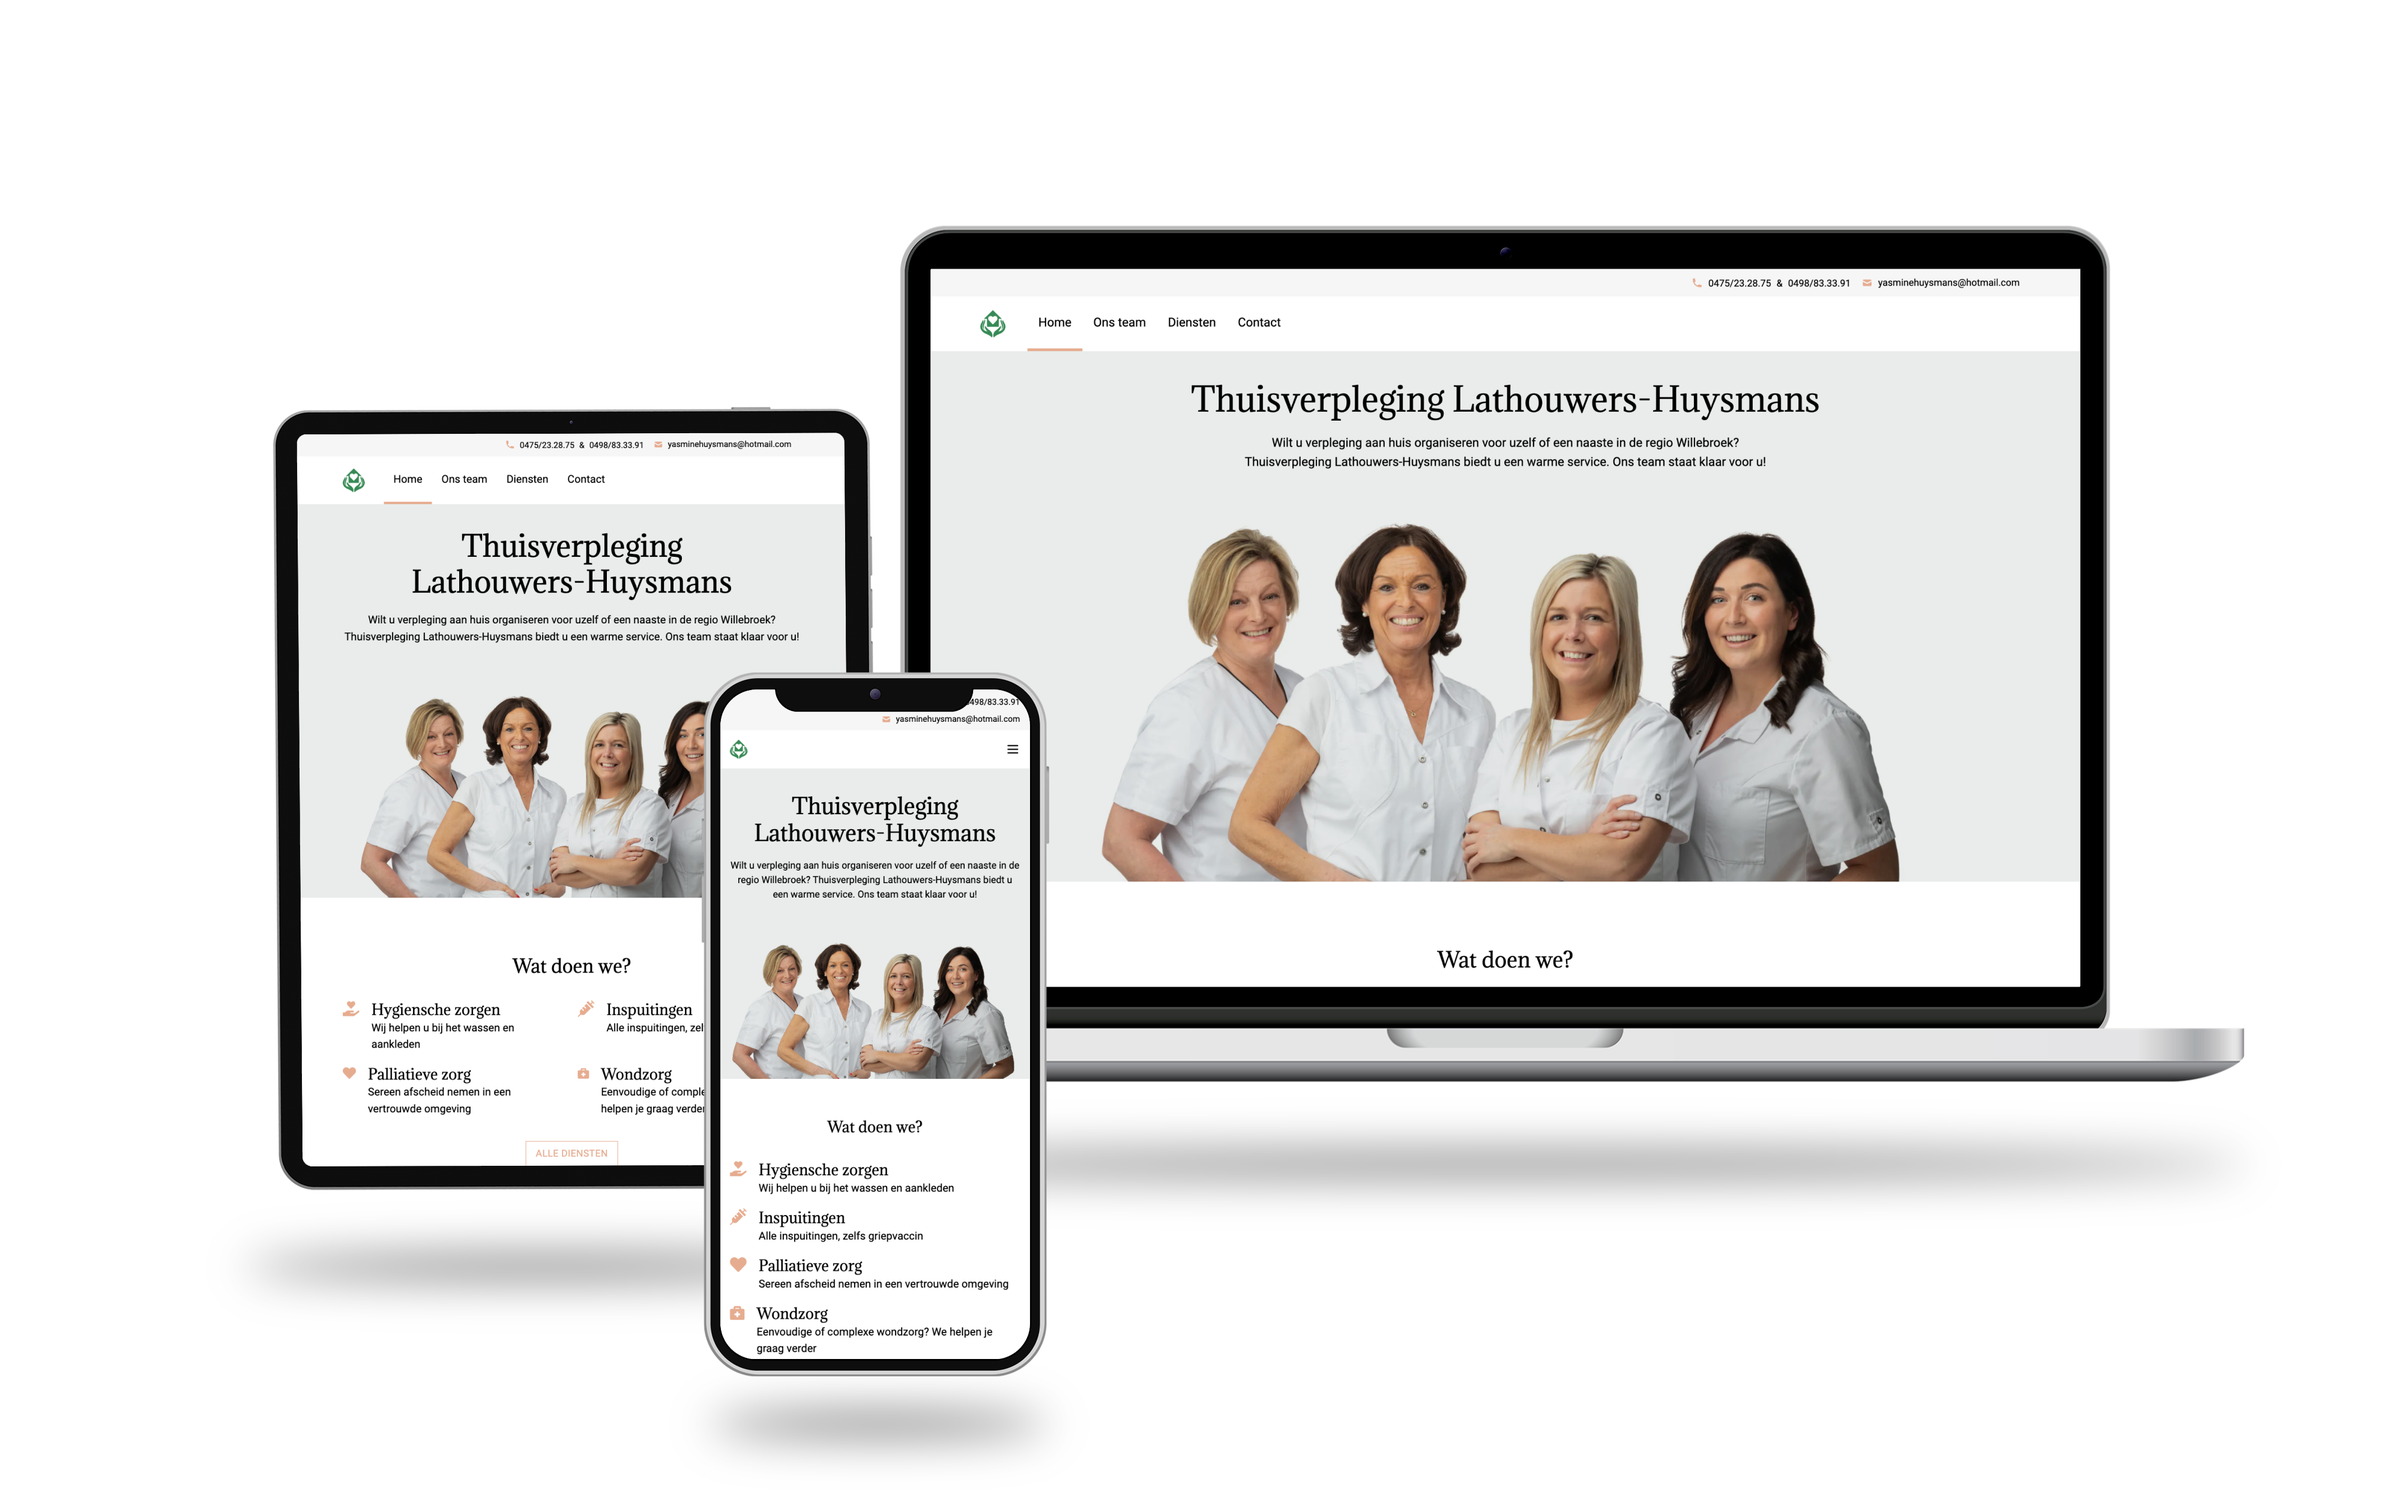
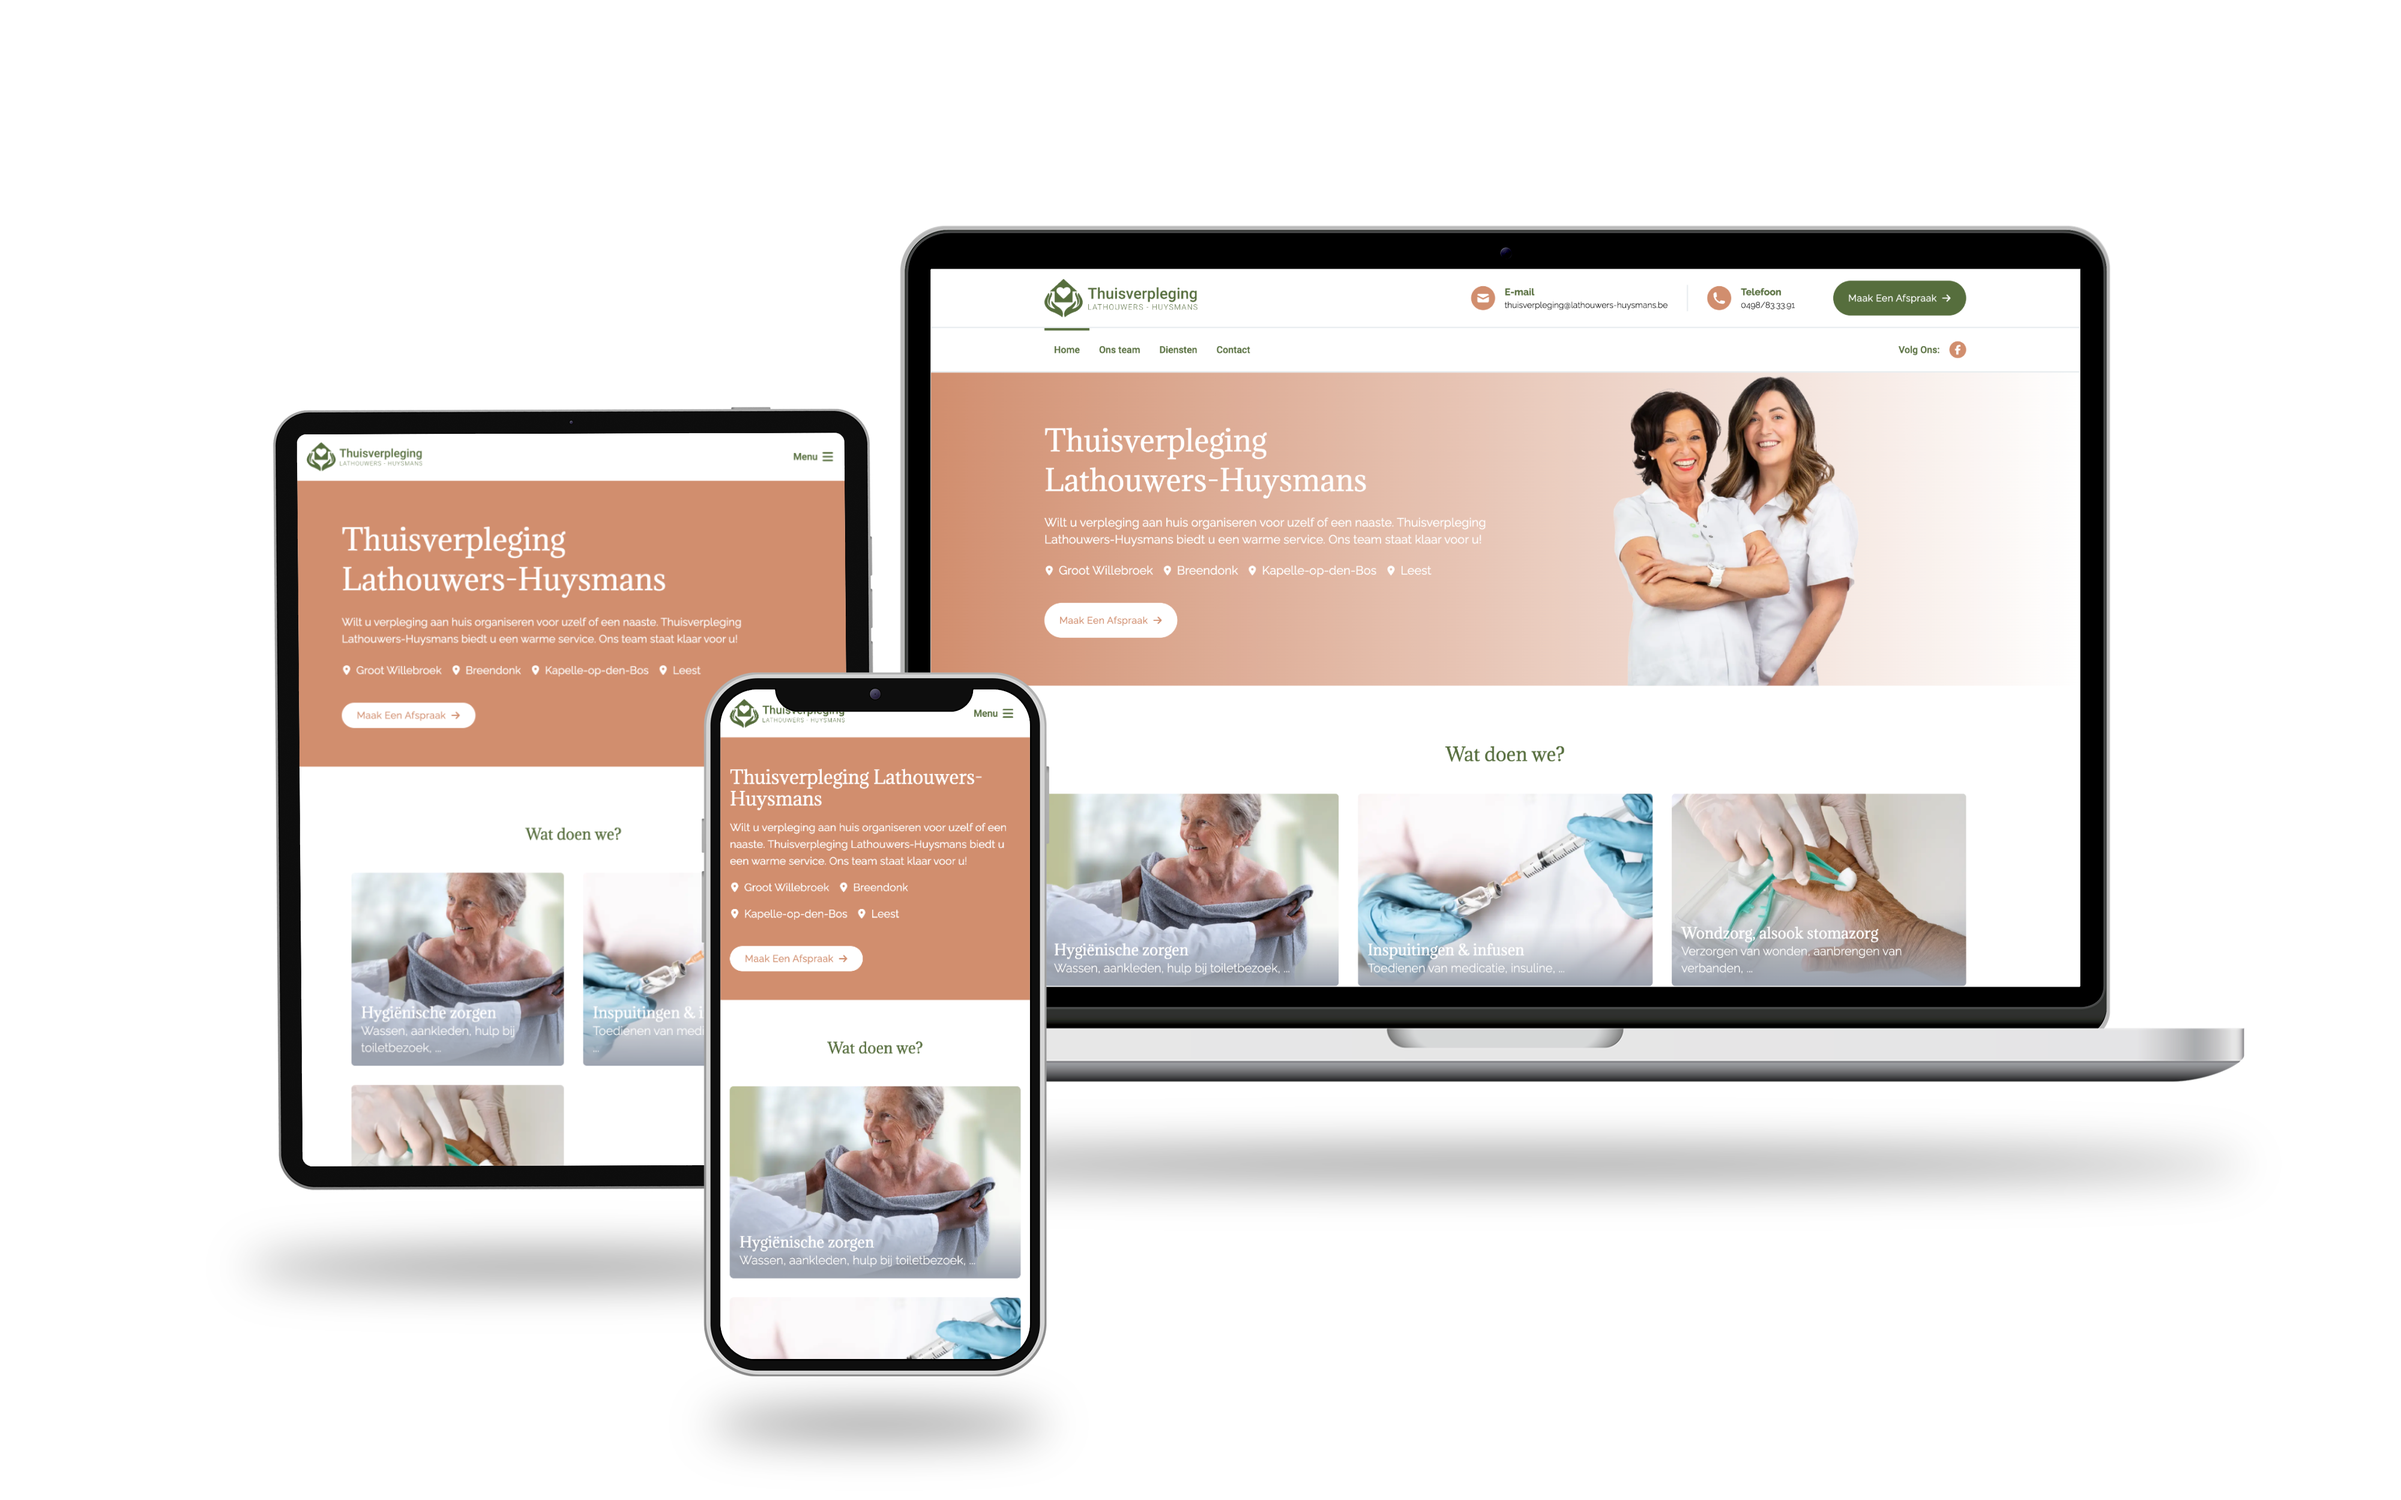
Add cases

Changed region(s): [[0.125, 0.1872, 0.8438, 0.9048], [0.6875, 0.1872, 0.8438, 0.2184], [0.5938, 0.1872, 0.6562, 0.2184]]

diff --git a/app/_data.tsx b/app/_data.tsx
@@ -1,5 +1,23 @@
 export const CASES = [
 	{
+		title: "Thuisverpleging Lathouwers-Huysmans",
+		image: {
+			src: "/cases/thuisverpleging-lathouwers.png",
+			alt: "Thuisverpleging Lathouwers-Huysmans website",
+		},
+		tags: ["Next.js", "Vercel", "TypeScript", "Tailwind CSS", "Nodemailer"],
+		website: "https://thuisverpleging-lathouwers.be",
+	},
+	{
+		title: "Thuisverpleging Samir & Maarten",
+		image: {
+			src: "/cases/samir-maarten.png",
+			alt: "Thuisverpleging Samir & Maarten website",
+		},
+		tags: ["Next.js", "Vercel", "TypeScript", "Tailwind CSS"],
+		website: "https://thuisverpleging-samir-maarten.be",
+	},
+	{
 		title: "Jungle Wood",
 		image: {
 			src: "/cases/jungle-wood.png",
@@ -9,22 +27,13 @@ export const CASES = [
 		website: "https://jungle-wood.be/",
 	},
 	{
-		title: "Thuisverpleging Lathouwers-Huysmans",
-		image: {
-			src: "/cases/thuisverpleging-lathouwers.png",
-			alt: "Thuisverpleging Lathouwers-Huysmans website",
-		},
-		tags: ["Next.js", "Vercel", "TypeScript", "Tailwind CSS"],
-		website: "https://thuisverpleging-lathouwers.be/",
-	},
-	{
 		title: "Car Perfection",
 		image: {
 			src: "/cases/car-perfection.png",
 			alt: "Car Perfection website",
 		},
 		tags: ["Next.js", "Vercel", "TypeScript", "Tailwind CSS"],
-		website: "https://carperfection.be/",
+		website: "https://carperfection.be",
 	},
 	{
 		title: "Huis MIO",
@@ -33,6 +42,6 @@ export const CASES = [
 			alt: "Huis MIO website",
 		},
 		tags: ["Drupal 9", "SCSS"],
-		website: "http://huismio.be/",
+		website: "http://huismio.be",
 	},
 ];
